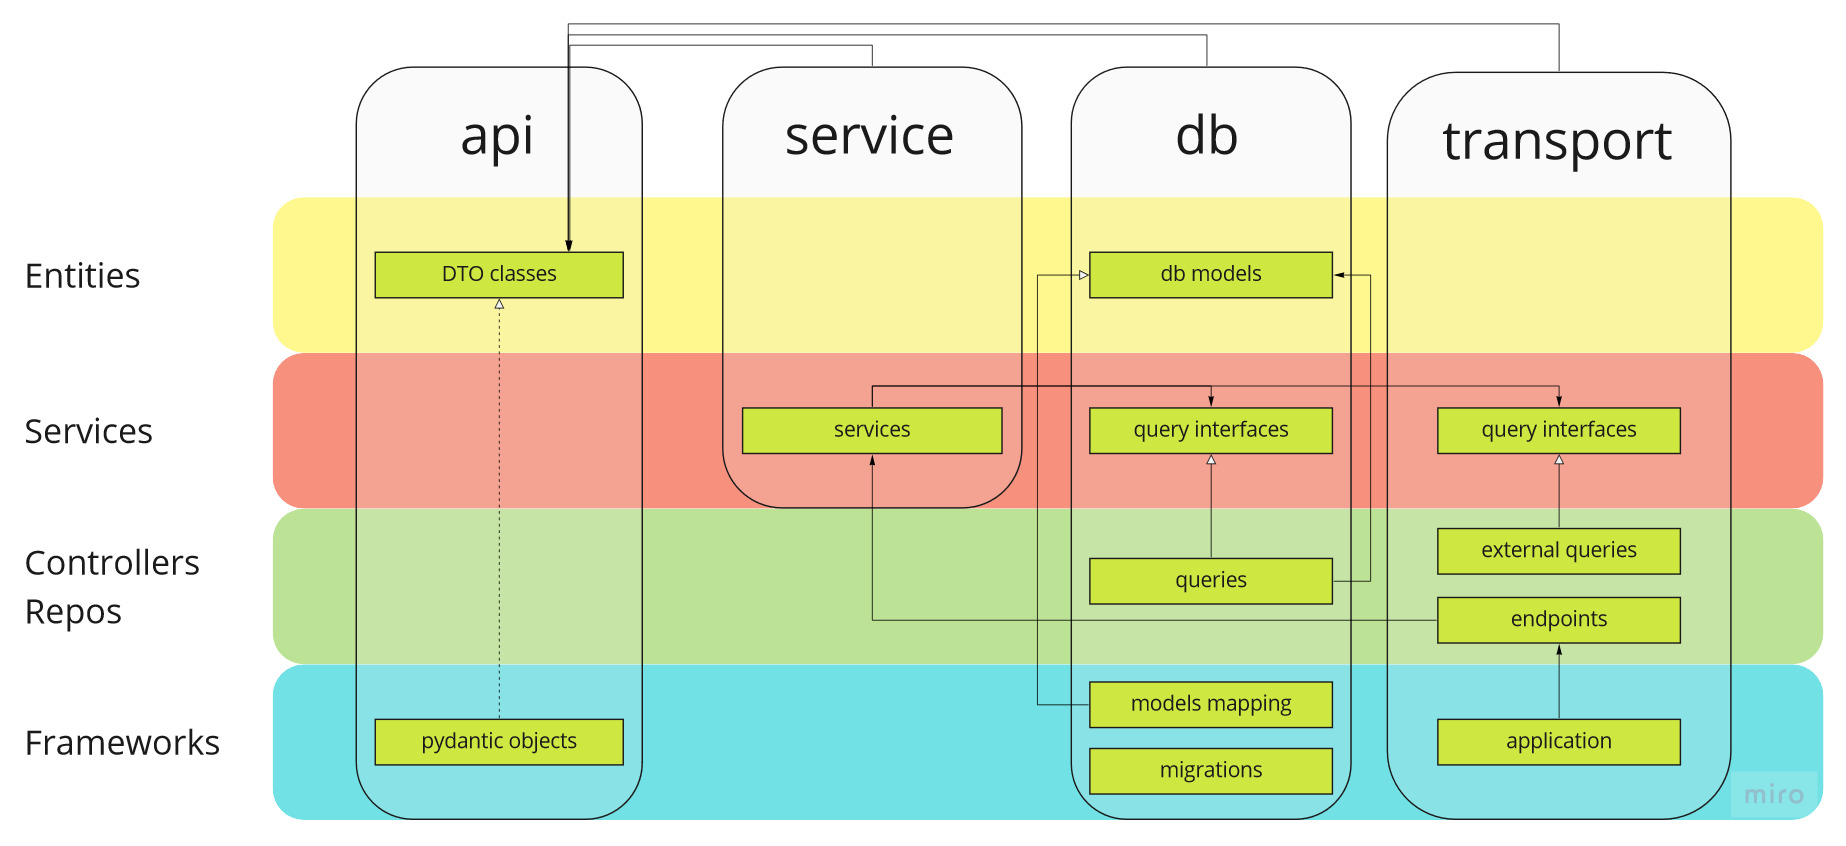
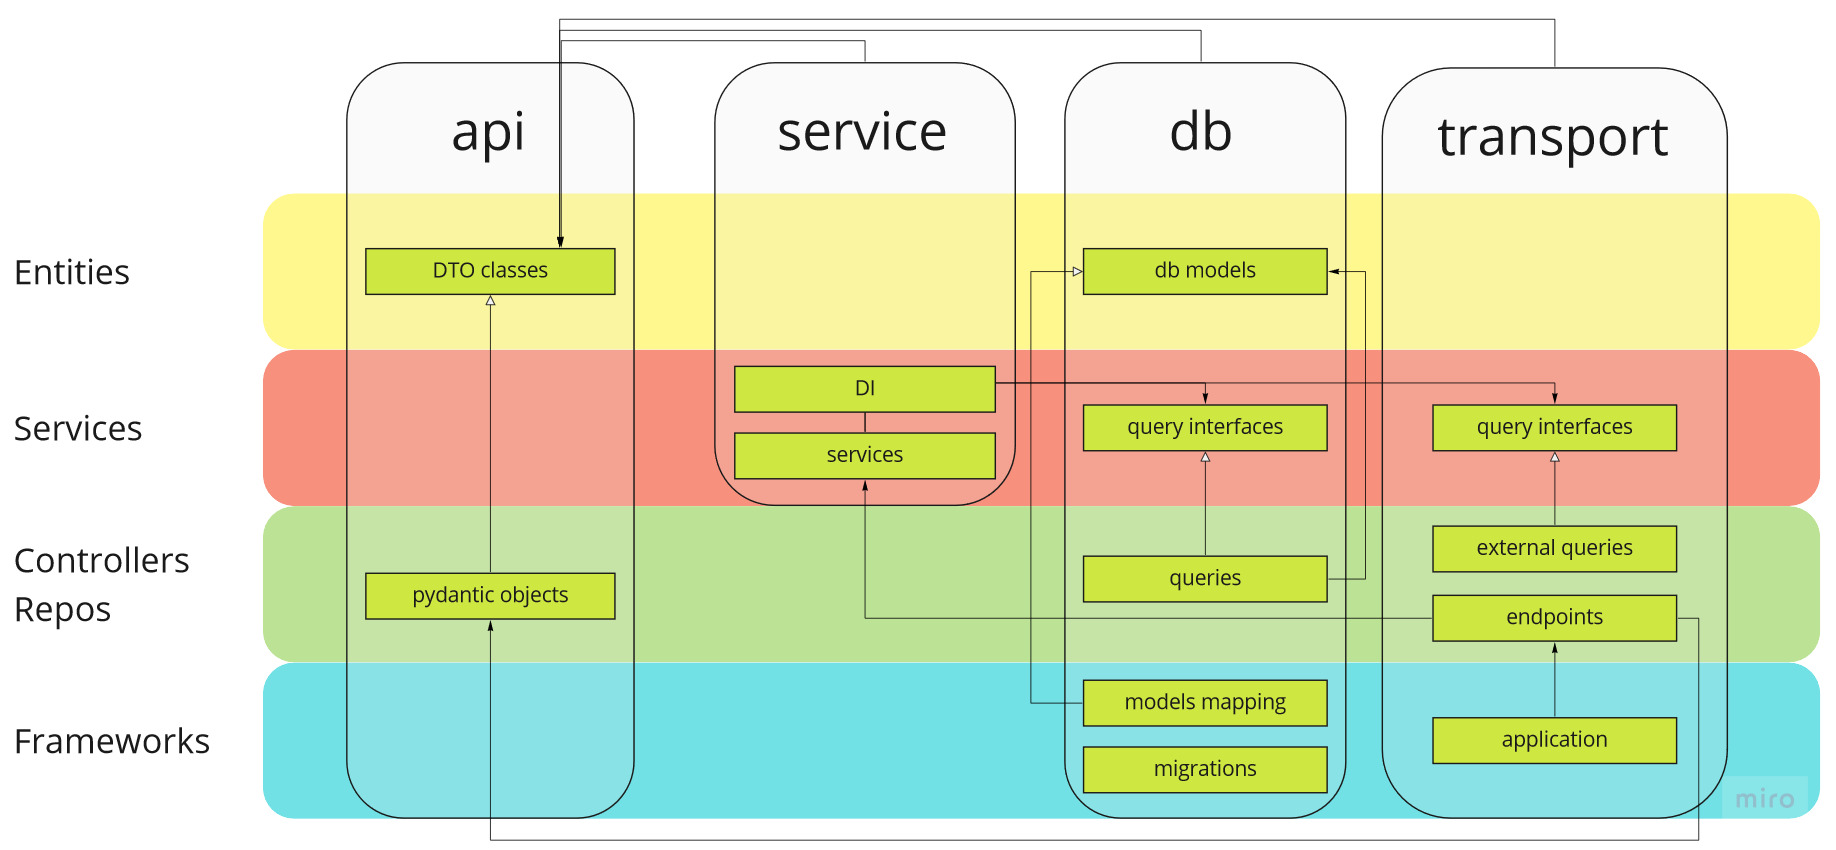
readmi upd

diff --git a/README.md b/README.md
@@ -9,22 +9,30 @@
 - CRUD участников группы
 - CRUD способов оплаты
 
+### Логика основных операций
+
+![basic operations](./assets/Basic_operations.png)
+
 ### Подзадачи
 
+- Проектирование сервиса; описание бизнес-логики
+- Описание и кодирование DTO и бд схем
+- Кодирование бизнес логики
+- Кодирование внешних зависимостей, контроллера и репозитория
+- Конфигурация приложения и инфраструктуры
+- Тестирование
+
 ### Архитектура
-При разработке фичи я пытался применить чистую архитектуру. Скорее всего, для 
-настолько небольшего приложения в этом не было смысла, но я хотел разобраться 
+При разработке фичи я пытался применить чистую архитектуру
 
 
 ![architecture diagram](./assets/architecture.jpg)
-сплошная линия - связи модулей  
-пунктирная - соответсвия модулей между слоями 
 
 На диаграмме по вертикали изображены модули, по горизонтали слои.
-В слое 
 
-Роль контроллера в приложении исполняет модуль endpoints. Он проксирует запросы в service, где
-описана логика сервиса.
+Основная логика приложения описана в модуле service. Для упрощения передачи зависимостей
+используется класс DI в котором описаны интерфейсы внешних слоев. Он создается на этапе конфигурации
+и прокидывается через контроллеры в services.
 
-На этапе конфигурации приложения создается контекстная переменная с экземпляром
-класса DI, где указываются отображения из слоя Entities во внешние.
+В роли контроллера в приложении выступают ручки. Они описаны в transport.endpoints. В них происходит
+валидация и далее данные передаются в services
